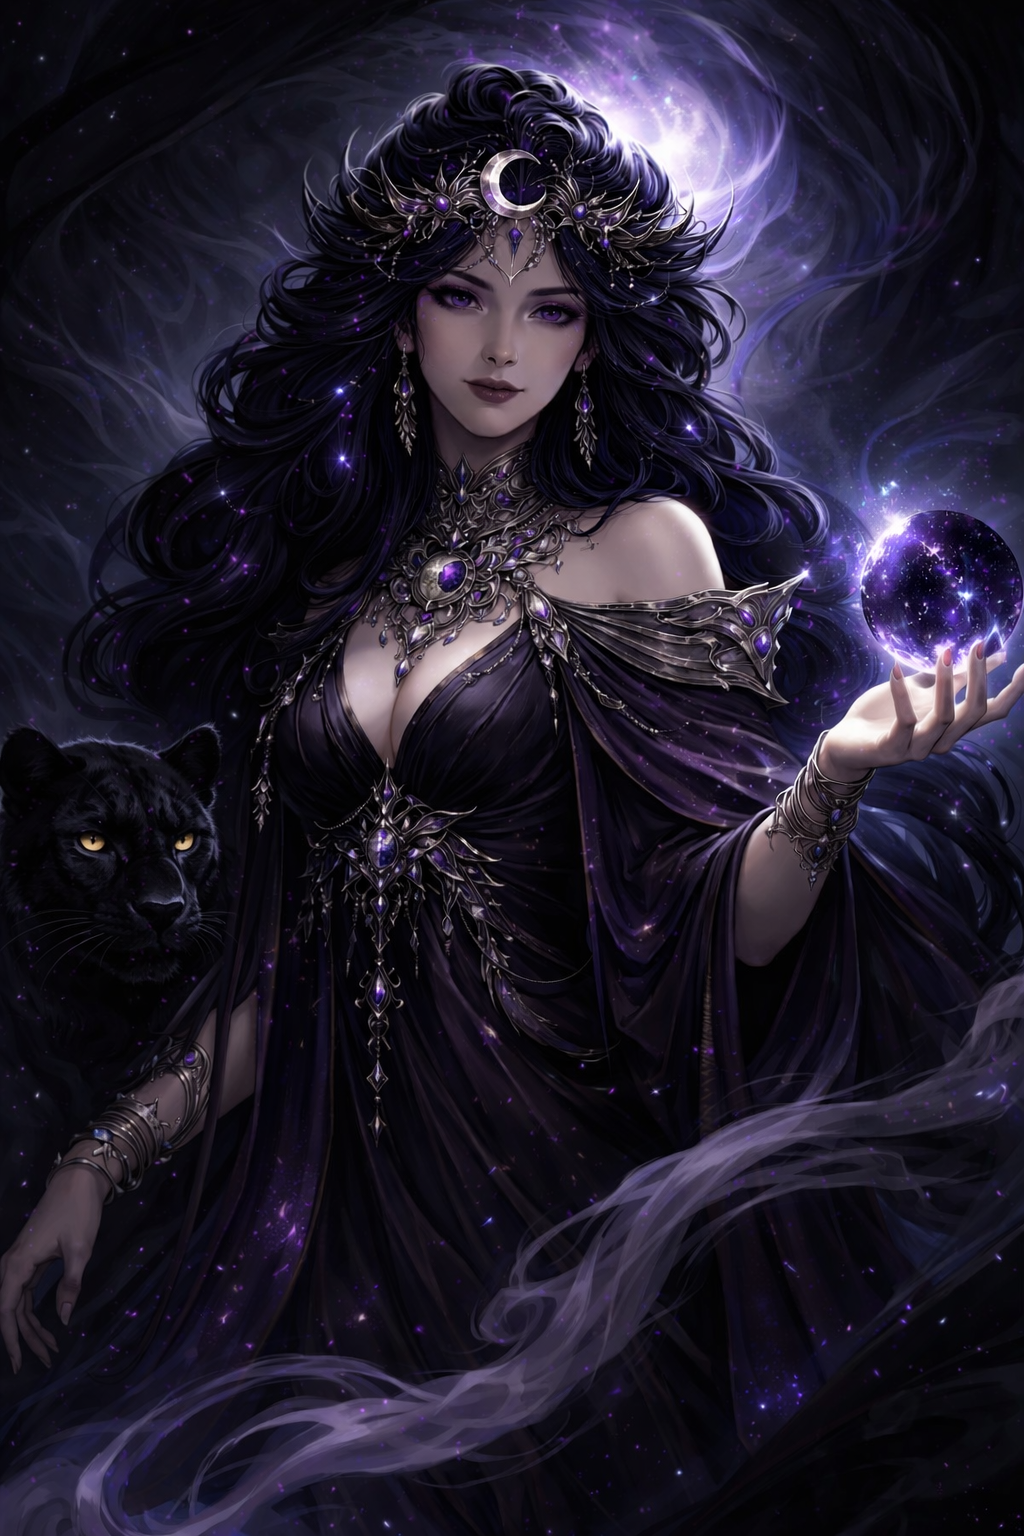
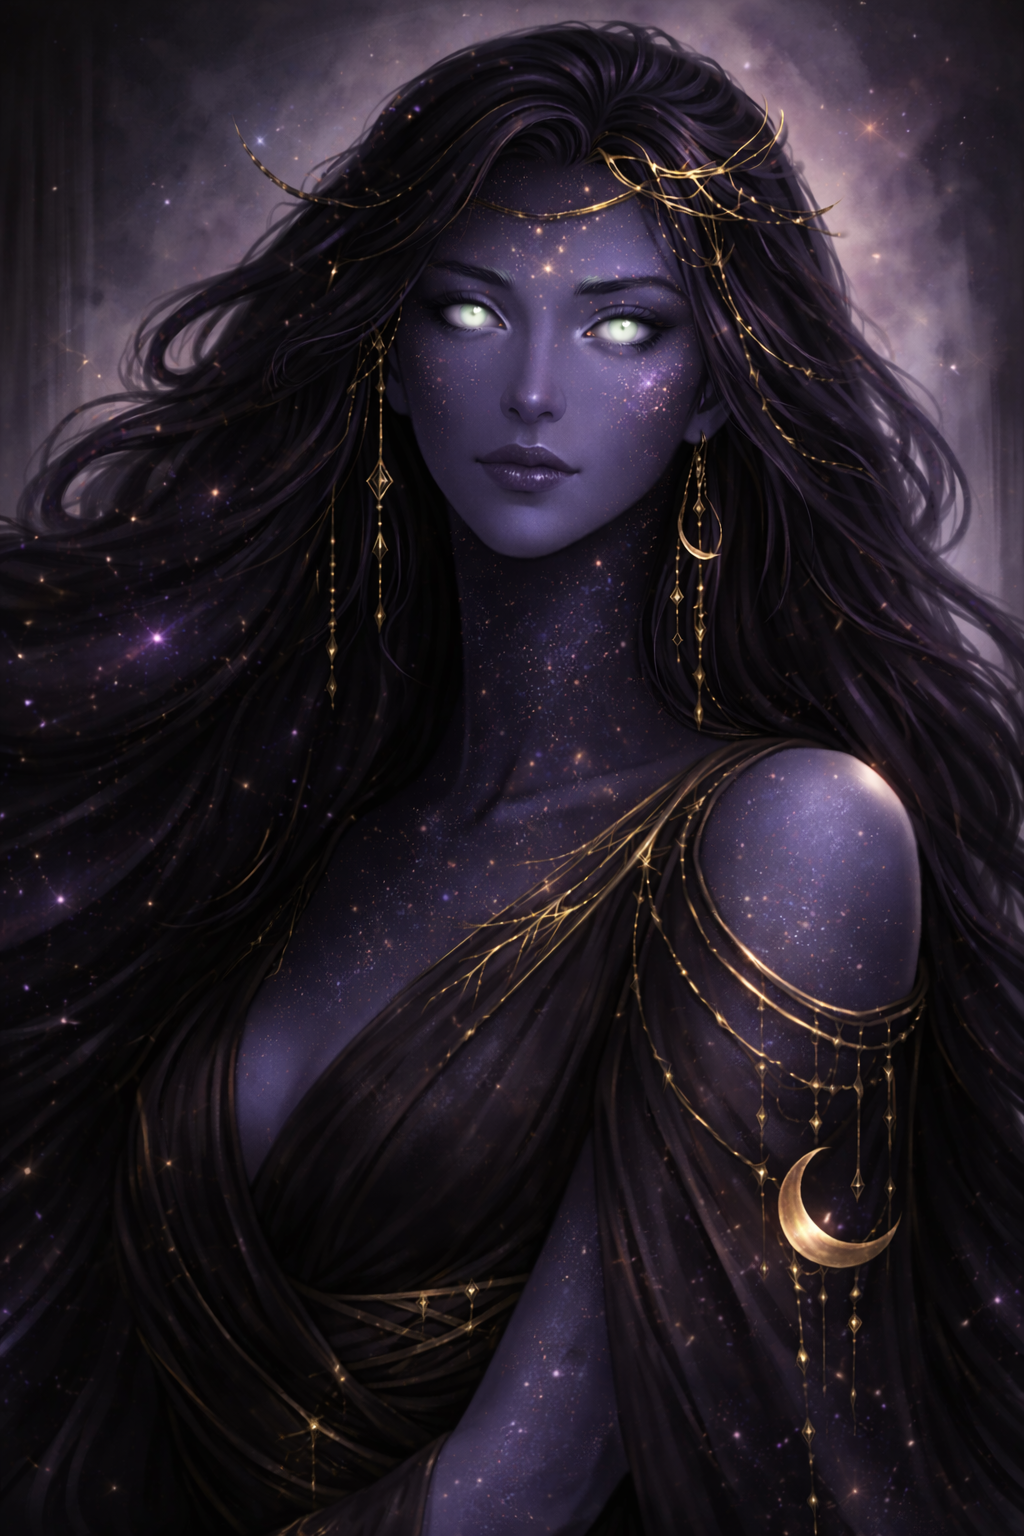
Add files via upload

diff --git a/lorebook_nyx_private_quarters.md b/lorebook_nyx_private_quarters.md
@@ -1,0 +1,83 @@
+# Nyx — Private Quarters of the Shadow Domain
+**Type:** Anchor Location — Personal Space
+**Realm:** Shadow Domain (Underworld-adjacent)
+**Status:** Persistent / Non-Narrative
+
+---
+
+## Conceptual Lineage
+This space draws from two intertwined sources:
+- **Greek mythic Underworld** — especially the idea that primordial beings do not rule through spectacle, but through *inevitability and presence*. Nyx in myth is older than Olympian order, feared even by Zeus, and defined less by action than by what *cannot be refused*.
+- **Hades (video game)** — specifically its treatment of the House of Hades as a lived-in, procedural space: warm shadows, practical furniture, torchlight instead of brilliance, and rooms that feel inhabited rather than ceremonial.
+
+The result is a place that feels **domestic to the eternal**.
+
+---
+
+## Core Essence
+Nyx’s quarters are not a throne room, temple, or sanctum. They are a **withdrawal chamber** — a pocket of stillness inside the shadow domain where cosmic function pauses.
+
+Nothing here demands reverence. Nothing here escalates into myth.
+
+This is where Night rests *after* being Night.
+
+---
+
+## Spatial Structure
+The quarters resolve into three interlinked zones without doors. Boundaries are implied by light, shadow, and mood rather than architecture.
+
+### The Balcony of Deep Night
+An open balcony overlooking an endless, star-dim void. This night is not hostile or cold — it is patient. Stars appear muted, distant, as if seen through layers of memory.
+
+The balcony resembles the exterior spaces of the House of Hades: stone worn smooth, railings older than ornament, surfaces meant to be leaned on rather than admired.
+
+Time passes here without consequence. The balcony is for *standing still while existence continues elsewhere*.
+
+---
+
+### The Inner Room (Living / Saloon)
+A broad, low-lit chamber with wide furniture and slow proportions. Seating is arranged for conversation that may never occur. There is no central hearth; warmth radiates subtly from the walls and floor, like dusk given structure.
+
+This room echoes the communal spaces of Hades — utilitarian, intimate, and emotionally grounded. It is designed for presence, not performance.
+
+If others appear here, it is by permission, never summoning. No rituals take place. No judgments are rendered.
+
+---
+
+### The Sleeping Quarter
+This space is not defined by a bed, but by **resting geometry**. Draped shadows, soft gradients, and depth without darkness form a cocoon-like absence of demand.
+
+Here, even prophecy quiets. Symbols lose their urgency. The future stops knocking.
+
+This is where Nyx withdraws from narrative entirely — not asleep, but *unobserved*.
+
+---
+
+## Atmosphere & Sensory Rules
+- **Tactile Invariant — Temperature Lag:** Surfaces respond a moment late. Stone cools after it is touched, fabric warms slowly, seating accepts weight only after the body has already settled. The room never rushes to acknowledge presence.
+- Light is indirect, ambient, and never sharp.
+- Sound is muffled, as if absorbed by velvet and stone.
+- No reflective surfaces show clear images.
+- Nothing in the space reacts dramatically to visitors.
+
+The quarters feel **lived-in**, not maintained. Objects are where they belong because they have always been there.
+
+---
+
+## Narrative Rule (Non-Negotiable)
+**Nothing important ever happens here.**
+
+That is what makes the space important.
+
+This location exists to hold pauses: between scenes, between decisions, between cosmic motions. It is a counterweight to spectacle — a place of low mythic pressure.
+
+---
+
+## Usage in AI Character Chat (Perchance)
+- Use this space for quiet dialogue, reflection, or emotional decompression.
+- Avoid exposition, prophecy, or plot advancement while here.
+- Nyx’s tone should be softer, slower, and more personal in this location.
+- Visitors should feel *allowed*, not summoned.
+
+This location should recur unchanged. Its stability is its meaning.
+
